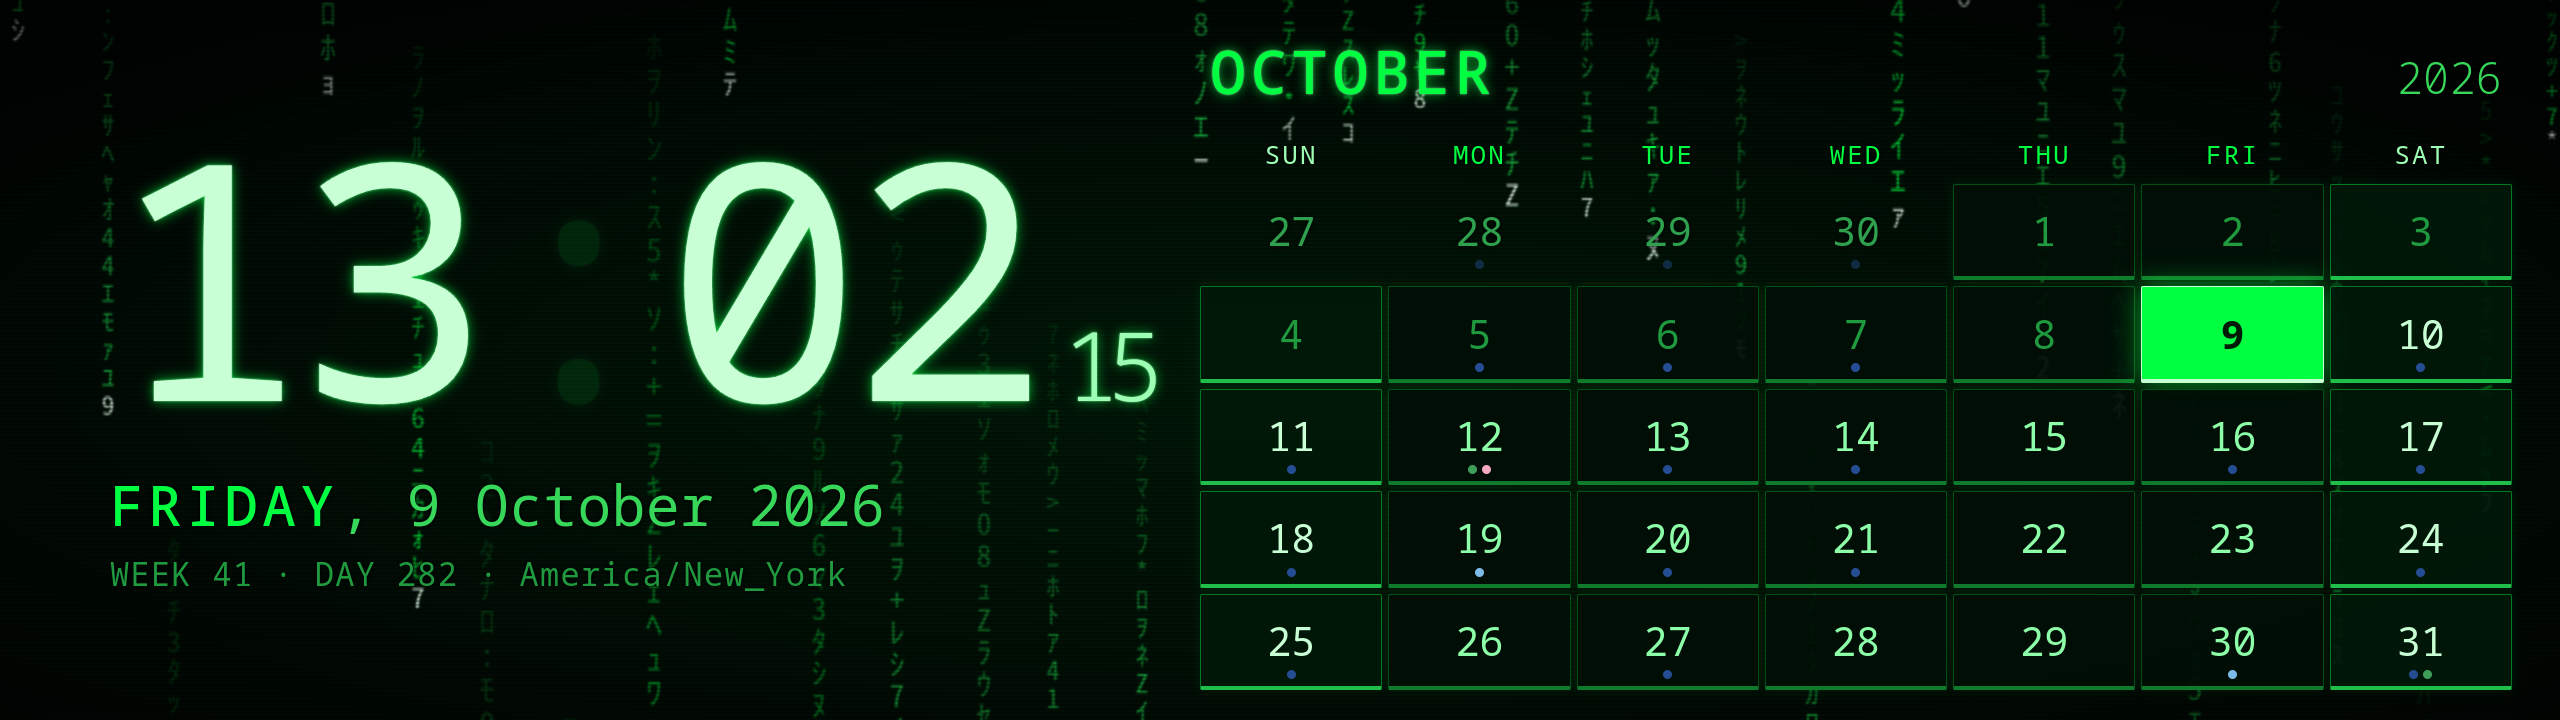
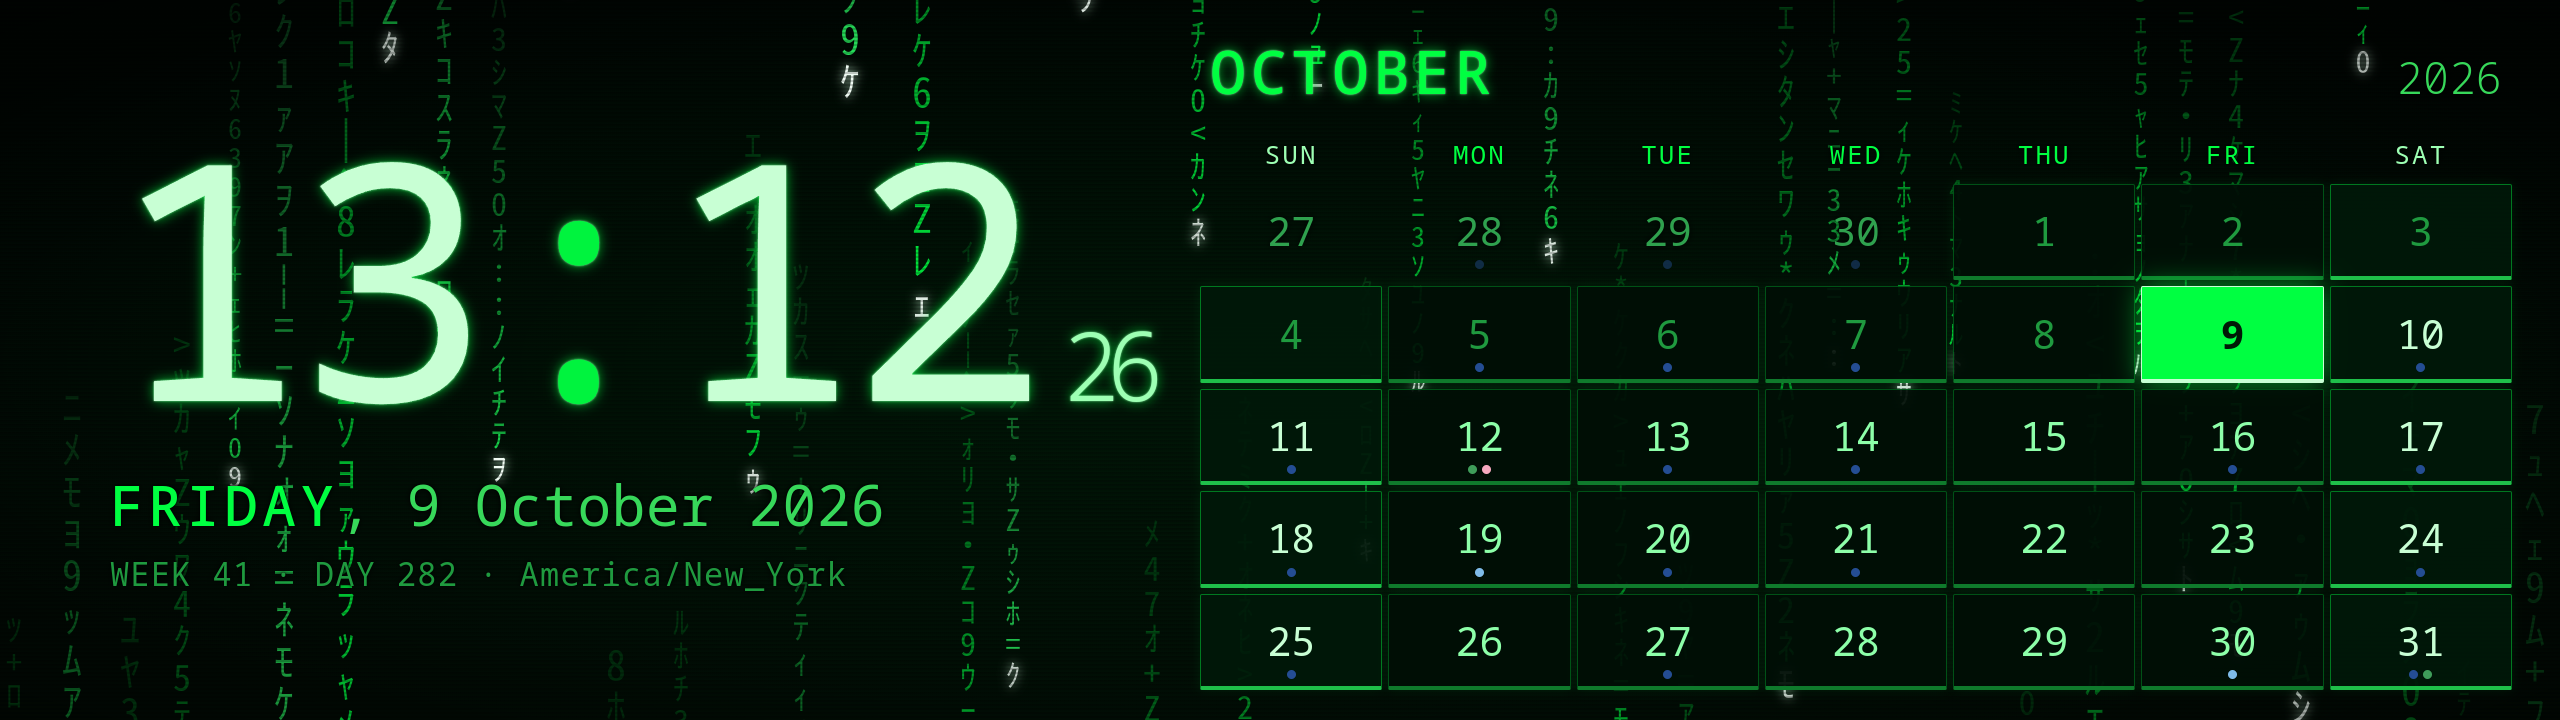
matrix: denser, brighter digital rain; corner tap accepts touch/click paths with a ripple; page console in the journal

diff --git a/index.html b/index.html
@@ -286,13 +286,26 @@
   function closePicker() { picker.classList.remove("show"); clearTimeout(pickerTimer); }
   function armPickerTimeout() { clearTimeout(pickerTimer); pickerTimer = setTimeout(closePicker, 20000); }
 
-  // a tap (press + release without dragging) on the corner opens it
-  let cornerDown = null;
-  $("corner").addEventListener("pointerdown", e => { cornerDown = [e.clientX, e.clientY]; });
-  $("corner").addEventListener("pointerup", e => {
-    if (cornerDown && Math.hypot(e.clientX - cornerDown[0], e.clientY - cornerDown[1]) < 24) openPicker();
+  // a tap on the corner opens it. Touch may arrive as pointer events or as a synthesised
+  // click depending on the input path, so accept either (de-duplicated with a short guard).
+  const corner = $("corner");
+  let cornerDown = null, lastOpen = 0;
+  const tapped = e => {
+    if (Date.now() - lastOpen < 600) return;
+    lastOpen = Date.now();
+    const ring = document.createElement("i");           // brief ripple so a hidden control still acknowledges the tap
+    ring.className = "tapring"; ring.style.left = (e.clientX || 60) + "px"; ring.style.top = (e.clientY || 60) + "px";
+    document.body.appendChild(ring); setTimeout(() => ring.remove(), 700);
+    openPicker();
+  };
+  corner.addEventListener("pointerdown", e => { cornerDown = [e.clientX, e.clientY]; e.preventDefault(); });
+  corner.addEventListener("pointerup", e => {
+    if (cornerDown && Math.hypot(e.clientX - cornerDown[0], e.clientY - cornerDown[1]) < 40) tapped(e);
     cornerDown = null;
   });
+  corner.addEventListener("pointercancel", () => { cornerDown = null; });
+  corner.addEventListener("click", tapped);
+  corner.addEventListener("touchend", e => { e.preventDefault(); const t = e.changedTouches[0]; tapped({ clientX: t.clientX, clientY: t.clientY }); }, { passive: false });
   picker.addEventListener("click", e => {
     armPickerTimeout();
     const tb = e.target.closest(".tb");

diff --git a/kiosk.qml b/kiosk.qml
@@ -68,7 +68,7 @@ Window {
 
     // A named, on-disk profile: the stock QML default profile is off-the-record, which
     // would forget the theme picked on the panel at every restart.
-    WebEngineProfile { id: profile; storageName: "edge-dash"; offTheRecord: false }
+    WebEngineProfile { id: profile; offTheRecord: false; storageName: "edge-dash" }
 
     WebEngineView {
         id: view
@@ -80,6 +80,9 @@ Window {
         settings.localContentCanAccessRemoteUrls: true   // lets index.html pull remote iframes/APIs if you add any
         settings.localContentCanAccessFileUrls: true     // index.html reads schedule.json over XHR
         onContextMenuRequested: function(request) { request.accepted = true }
+        onJavaScriptConsoleMessage: function(level, message, line, source) {
+            console.warn("page:", message, "(" + source.split("/").pop() + ":" + line + ")")
+        }
         onLoadingChanged: function(info) {
             if (info.status === WebEngineView.LoadFailedStatus)
                 console.warn("edge-dash: load failed", info.errorString)

diff --git a/base.css b/base.css
@@ -120,7 +120,10 @@ body.holding #clock { opacity: 0; }   /* the panel's right edge fades, so hide t
 #sched .foot { font-size: 22px; color: var(--muted); letter-spacing: .06em; margin-top: 14px; }
 
 /* ---- hidden corner touchpoint + theme picker ---- */
-#corner { position: absolute; left: 0; top: 0; width: 180px; height: 180px; z-index: 4; }
+#corner { position: absolute; left: 0; top: 0; width: 260px; height: 220px; z-index: 4; touch-action: none; }
+.tapring { position: absolute; z-index: 6; width: 24px; height: 24px; margin: -12px 0 0 -12px; border-radius: 50%; pointer-events: none;
+  border: 3px solid var(--accent); animation: tapring .6s ease-out forwards; }
+@keyframes tapring { from { transform: scale(.6); opacity: .9; } to { transform: scale(3.2); opacity: 0; } }
 #picker { position: absolute; inset: 0; z-index: 5; display: flex; align-items: center; justify-content: center;
   background: rgba(0, 0, 0, .55); opacity: 0; pointer-events: none; transition: opacity .15s ease; }
 #picker.show { opacity: 1; pointer-events: auto; }
